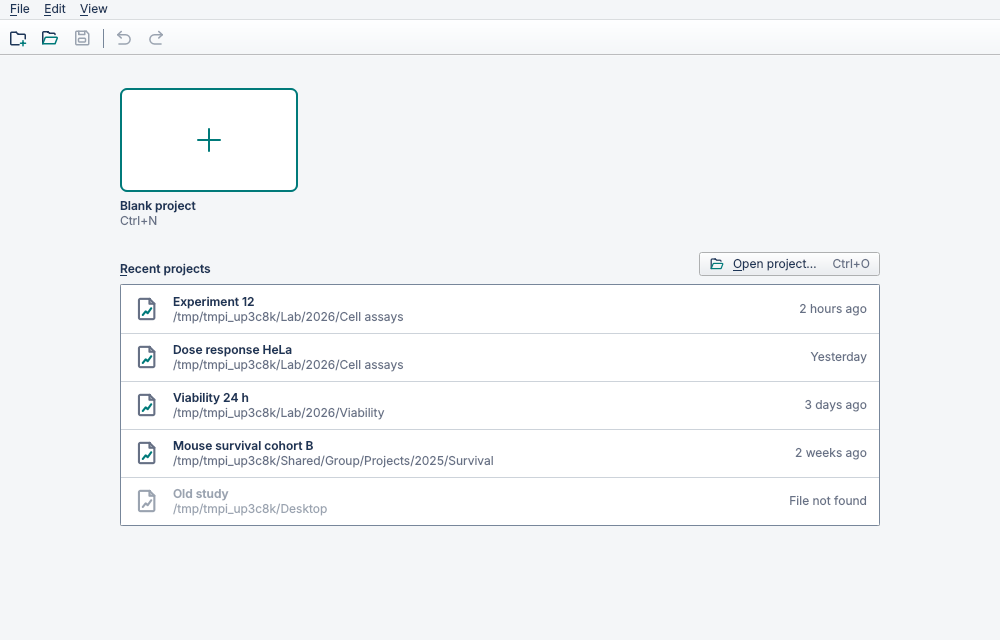
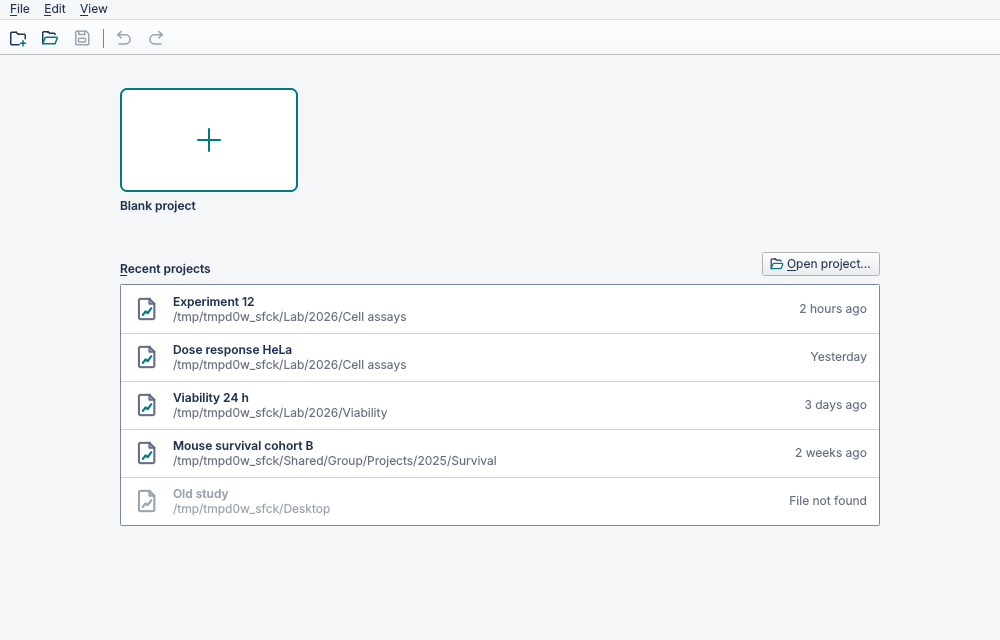
Show no key combinations on the launcher
Blank project has no secondary line (sample tiles keep "Sample"), and
Open project… is a plain push button without the Ctrl+O hint. The
shortcuts still work and the menus name them. DESIGN.md section 10, the
mockup and the screenshots are updated to match.

Claude-Session: https://claude.ai/code/session_01CFpmBXqzCNSondX9qKvj9d

diff --git a/docs/mockups/launcher.html b/docs/mockups/launcher.html
@@ -149,7 +149,7 @@
     <div class="win" id="vc" style="width:1000px;height:640px"></div>
     <div class="notes">
       <ol>
-        <li>A row of tiles: <b>Blank project</b> first (with its shortcut), then the sample projects, each with a small picture of its graph (the samples come with step 2.9). Click a tile to start; a sample opens as a new, untitled copy.</li>
+        <li>A row of tiles: <b>Blank project</b> first, then the sample projects, each with a small picture of its graph (the samples come with step 2.9). Click a tile to start; a sample opens as a new, untitled copy.</li>
         <li><b>Open project…</b> sits at the right of the Recent projects heading, next to the list it belongs with.</li>
         <li>Recent projects, newest first: name, folder (shortened in the middle when long) and when it was last opened. One click opens. The hovered row is shaded.</li>
         <li>Right-click a row: <b>Open</b>, <b>Remove from list</b>. Removing never touches the file. A missing file is dimmed and says “File not found”; clicking it does nothing.</li>
@@ -166,7 +166,7 @@
     <div class="holder"><div class="win" id="ec" style="width:1000px;height:620px"></div><div class="cap">First start: no recent projects</div></div>
     <div class="holder"><div class="win" id="ed" style="width:1000px;height:620px"></div><div class="cap">Until step 2.9: Blank project only</div></div>
   </div>
-  <p style="margin-top:40px;max-width:900px">With no recent projects the list is replaced by one centred sentence (DESIGN.md section 5): “Projects you open or save will appear here.” Keyboard: Blank project has the focus, so Enter starts one; Ctrl+N and Ctrl+O work as everywhere. Tab moves from the tiles to Open project… and the list; arrow keys move along the tiles and in the list, Enter opens, and the menu key or Shift+F10 opens the row's menu.</p>
+  <p style="margin-top:40px;max-width:900px">With no recent projects the list is replaced by one centred sentence (DESIGN.md section 5): “Projects you open or save will appear here.” The launcher shows no key combinations. Keyboard: Blank project has the focus, so Enter starts one; Ctrl+N and Ctrl+O work as everywhere. Tab moves from the tiles to Open project… and the list; arrow keys move along the tiles and in the list, Enter opens, and the menu key or Shift+F10 opens the row's menu.</p>
 </section>
 
 <script>
@@ -217,12 +217,12 @@
   };
   function versionC(opts) {
     opts = opts || {};
-    var tiles = [["blank", "Blank project", "Ctrl+N"], ["bars", "Group comparison", "Sample"], ["dose", "Dose-response", "Sample"], ["xy", "XY with replicates", "Sample"]];
+    var tiles = [["blank", "Blank project", ""], ["bars", "Group comparison", "Sample"], ["dose", "Dose-response", "Sample"], ["xy", "XY with replicates", "Sample"]];
     return chrome() + '<div class="body"><div class="c-col">' +
       '<div class="c-tiles">' + (opts.noSamples ? tiles.slice(0, 1) : tiles).map(function (t, i) {
-        return '<div class="ctile' + (i === 2 && !opts.empty ? ' hover' : '') + '"><div class="thumb">' + THUMBS[t[0]] + '</div><b>' + t[1] + '</b><span class="kbd">' + t[2] + '</span></div>';
+        return '<div class="ctile' + (i === 2 && !opts.empty ? ' hover' : '') + '"><div class="thumb">' + THUMBS[t[0]] + '</div><b>' + t[1] + '</b><span class="kbd">' + (t[2] || '&nbsp;') + '</span></div>';
       }).join('') + '</div>' +
-      '<div class="listhead"><h3>Recent projects</h3><span class="right btn">' + svg("open") + 'Open project…<span class="kbd" style="padding-left:8px">Ctrl+O</span></span></div>' + recentList(opts) +
+      '<div class="listhead"><h3>Recent projects</h3><span class="right btn">' + svg("open") + 'Open project…</span></div>' + recentList(opts) +
     '</div></div>';
   }
 

diff --git a/src/curvis/ui/launcher.py b/src/curvis/ui/launcher.py
@@ -33,9 +33,7 @@ from PySide6.QtGui import (
     QFocusEvent,
     QFont,
     QFontMetrics,
-    QIcon,
     QKeyEvent,
-    QKeySequence,
     QMouseEvent,
     QPainter,
     QPaintEvent,
@@ -59,7 +57,6 @@ from PySide6.QtWidgets import (
     QSizePolicy,
     QStyle,
     QStyledItemDelegate,
-    QStyleOptionButton,
     QStyleOptionViewItem,
     QVBoxLayout,
     QWidget,
@@ -108,11 +105,6 @@ def _semibold(font: QFont) -> QFont:
     return bold
 
 
-def _native(key: QKeySequence.StandardKey) -> str:
-    """A standard shortcut as the platform writes it (Ctrl+N, ⌘N)."""
-    return QKeySequence(key).toString(QKeySequence.SequenceFormat.NativeText)
-
-
 # --- tiles ---------------------------------------------------------------------------
 
 PictureFn = Callable[[QPainter, QRectF, QPalette], None]
@@ -126,7 +118,8 @@ class Tile:
     key: str
     name: str
     detail: str
-    """The secondary line under the name: the shortcut, or "Sample"."""
+    """The secondary line under the name ("Sample"); empty for *Blank project*. The
+    launcher shows no key combinations."""
     picture: PictureFn
 
 
@@ -144,7 +137,7 @@ def draw_plus(painter: QPainter, rect: QRectF, palette: QPalette) -> None:
 
 
 def blank_tile() -> Tile:
-    return Tile(BLANK_KEY, "Blank project", _native(QKeySequence.StandardKey.New), draw_plus)
+    return Tile(BLANK_KEY, "Blank project", "", draw_plus)
 
 
 class TileButton(QAbstractButton):
@@ -159,7 +152,8 @@ class TileButton(QAbstractButton):
         self.tile = tile
         self.setText(tile.name)
         self.setAccessibleName(tile.name)
-        self.setAccessibleDescription(tile.detail)
+        if tile.detail:
+            self.setAccessibleDescription(tile.detail)
         self.setFocusPolicy(Qt.FocusPolicy.StrongFocus)
         self.setAttribute(Qt.WidgetAttribute.WA_Hover)
         self.setCursor(Qt.CursorShape.PointingHandCursor)
@@ -301,75 +295,6 @@ class TileRow(QWidget):
         index = self.buttons.index(button) + step
         if 0 <= index < len(self.buttons):
             self.buttons[index].setFocus(Qt.FocusReason.TabFocusReason)
-
-
-# --- Open project… -------------------------------------------------------------------
-
-
-class ShortcutButton(QPushButton):
-    """A push button with its icon and text at the left and its shortcut, in
-    ``PlaceholderText``, at the right (*Open project…  Ctrl+O*)."""
-
-    PADDING = 10
-
-    def __init__(
-        self, text: str, icon: QIcon, shortcut_text: str, parent: QWidget | None = None
-    ) -> None:
-        super().__init__(icon, text, parent)
-        self.shortcut_text = shortcut_text
-
-    def _label_width(self) -> int:
-        return self.fontMetrics().horizontalAdvance(self.text().replace("&", ""))
-
-    def sizeHint(self) -> QSize:  # noqa: N802 (Qt API)
-        base = super().sizeHint()
-        width = (
-            self.PADDING * 2
-            + self.iconSize().width()
-            + SPACING
-            + self._label_width()
-            + SECTION_SPACING
-            + self.fontMetrics().horizontalAdvance(self.shortcut_text)
-        )
-        return QSize(max(base.width(), width), base.height())
-
-    def minimumSizeHint(self) -> QSize:  # noqa: N802 (Qt API)
-        return self.sizeHint()
-
-    def paintEvent(self, event: QPaintEvent) -> None:  # noqa: N802 (Qt API)
-        painter = QPainter(self)
-        option = QStyleOptionButton()
-        self.initStyleOption(option)
-        option.text = ""
-        option.icon = QIcon()
-        style = self.style()
-        style.drawControl(QStyle.ControlElement.CE_PushButton, option, painter, self)
-
-        inner = self.rect().adjusted(self.PADDING, 0, -self.PADDING, 0)
-        size = self.iconSize()
-        mode = QIcon.Mode.Normal if self.isEnabled() else QIcon.Mode.Disabled
-        top = inner.top() + (inner.height() - size.height()) // 2
-        self.icon().paint(painter, QRect(QPoint(inner.left(), top), size), mode=mode)
-
-        text_rect = inner.adjusted(size.width() + SPACING, 0, 0, 0)
-        mnemonic = (
-            Qt.TextFlag.TextShowMnemonic
-            if style.styleHint(QStyle.StyleHint.SH_UnderlineShortcut, option, self)
-            else Qt.TextFlag.TextHideMnemonic
-        )
-        left = Qt.AlignmentFlag.AlignLeft | Qt.AlignmentFlag.AlignVCenter
-        style.drawItemText(
-            painter,
-            text_rect,
-            int(left) | int(mnemonic),
-            self.palette(),
-            self.isEnabled(),
-            self.text(),
-            _R.ButtonText,
-        )
-        painter.setPen(self.palette().color(_R.PlaceholderText))
-        right = Qt.AlignmentFlag.AlignRight | Qt.AlignmentFlag.AlignVCenter
-        painter.drawText(text_rect, right, self.shortcut_text)
 
 
 # --- recent list ---------------------------------------------------------------------
@@ -603,12 +528,7 @@ class _Content:
         self.recent_label = QLabel("&Recent projects", self.column)
         self.recent_label.setFont(_semibold(self.recent_label.font()))
         self.recent_label.setBuddy(self.recent_list)
-        self.open_button = ShortcutButton(
-            "&Open project…",
-            toolbar_icon("open_project"),
-            _native(QKeySequence.StandardKey.Open),
-            self.column,
-        )
+        self.open_button = QPushButton(toolbar_icon("open_project"), "&Open project…", self.column)
         self.open_button.setToolTip("Open a project file")
         heading = QHBoxLayout()
         heading.setContentsMargins(0, 0, 0, 0)
@@ -691,7 +611,7 @@ class LauncherWidget(QWidget):
         return self._ensure_built().recent_label
 
     @property
-    def open_button(self) -> ShortcutButton:
+    def open_button(self) -> QPushButton:
         return self._ensure_built().open_button
 
     @property

diff --git a/tests/ui/test_launcher.py b/tests/ui/test_launcher.py
@@ -66,7 +66,7 @@ def inside(child: QWidget, ancestor: QWidget) -> QRect:
 def test_only_blank_project_tile_for_now(qtbot: QtBot) -> None:
     launcher = make_launcher(qtbot)
     assert [t.tile.name for t in launcher.tiles] == ["Blank project"]
-    assert launcher.blank_tile.tile.detail == "Ctrl+N"
+    assert launcher.blank_tile.tile.detail == ""  # no key combination on the launcher
     assert launcher.blank_tile.sizeHint().width() == TILE_WIDTH
 
 
@@ -115,13 +115,22 @@ def test_arrow_keys_move_along_the_tiles(qtbot: QtBot) -> None:
     assert launcher.focusWidget() is first
 
 
+def test_no_key_combinations_are_shown(qtbot: QtBot) -> None:
+    sample = Tile("dose", "Dose-response", "Sample", draw_plus)
+    launcher = make_launcher(qtbot, [blank_tile(), sample])
+    shown = [t.tile.detail for t in launcher.tiles]
+    shown += [launcher.open_button.text(), launcher.open_button.toolTip()]
+    assert not any("Ctrl" in text or "⌘" in text for text in shown)
+    # blank and sample tiles keep the same height, so their names line up
+    assert launcher.tiles[0].sizeHint() == launcher.tiles[1].sizeHint()
+
+
 # --- Open project… -----------------------------------------------------------------------
 
 
 def test_open_project_button(qtbot: QtBot) -> None:
     launcher = make_launcher(qtbot)
     assert launcher.open_button.text() == "&Open project…"
-    assert launcher.open_button.shortcut_text == "Ctrl+O"
     with qtbot.waitSignal(launcher.open_requested, timeout=1000):
         qtbot.mouseClick(launcher.open_button, Qt.MouseButton.LeftButton)
 

diff --git a/docs/DESIGN.md b/docs/DESIGN.md
@@ -297,10 +297,11 @@ Mockup: `docs/mockups/launcher.html`.
 
 - **Layout.** One centred column, 760 px wide (narrower windows: the full width with the
   12 px margin). From the top: a row of tiles, then the *Recent projects* heading with the
-  *Open project…* button (Ctrl+O) at its right, then the recent list. No logo, version or
-  tagline; the window title already says Curvis.
+  *Open project…* button at its right, then the recent list. No logo, version or
+  tagline; the window title already says Curvis. The launcher shows **no key
+  combinations**: Ctrl+N and Ctrl+O work as everywhere, and the menus name them.
 - **Tiles.** 178 px wide: a framed picture 104 px high on `Base`, the name under it, and a
-  secondary line (*Ctrl+N* for Blank project, *Sample* for a sample). *Blank project* comes
+  secondary line (*Sample* for a sample; empty for Blank project). *Blank project* comes
   first and has the focus, so Enter starts a project. Sample tiles show a small picture of
   their graph drawn with `Link` and `PlaceholderText`. Hover and focus outline the picture in
   `Highlight`. Tiles that do not fit wrap to a second row.
